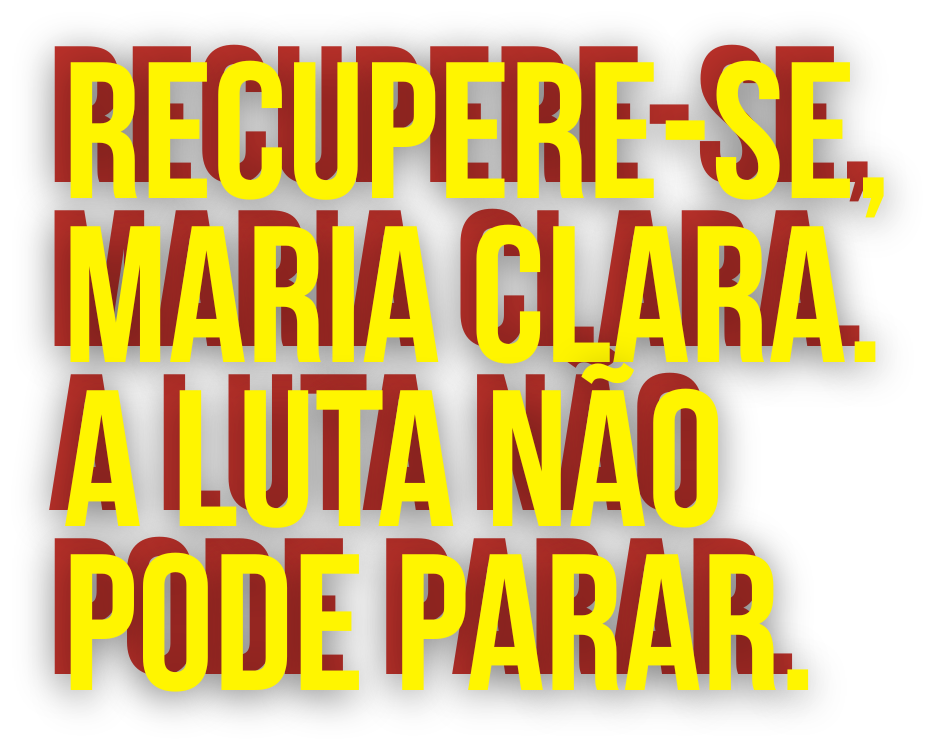
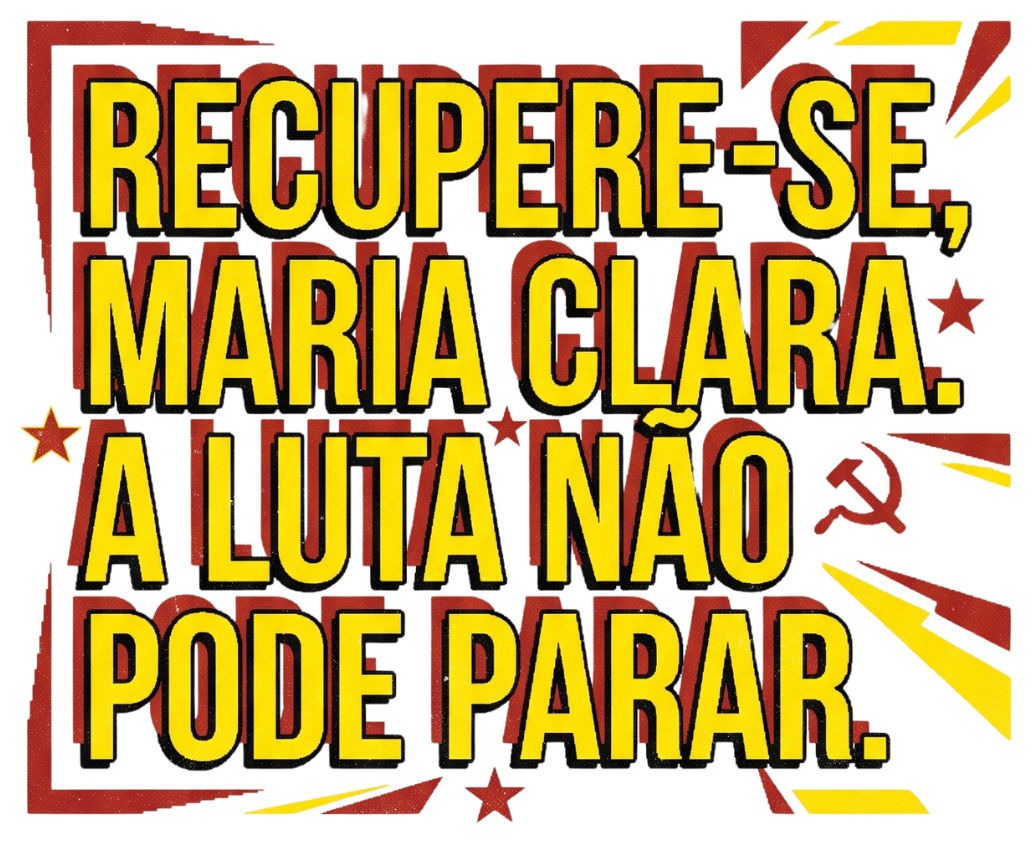
Troca o letreiro pela nova arte
'letreiro.png (2).png' renomeado para letreiro.png (substitui o
anterior), com fundo branco removido e recorte ao redor da arte.

Claude-Session: https://claude.ai/code/session_017TD9EjtYSDLiQdSc8QsZux

diff --git a/index.html b/index.html
@@ -6,7 +6,7 @@
   <meta name="theme-color" content="#C8102E">
   <title>Aniversário</title>
   <link rel="preload" as="image" href="fundo.png?v=3">
-  <link rel="preload" as="image" href="letreiro.png?v=3">
+  <link rel="preload" as="image" href="letreiro.png?v=4">
   <style>
     *, *::before, *::after { box-sizing: border-box; margin: 0; padding: 0; }
 
@@ -238,7 +238,7 @@
 <body>
   <main id="app">
     <section id="tela-final" class="tela" aria-hidden="true">
-      <img id="letreiro" src="letreiro.png?v=3" alt="Letreiro">
+      <img id="letreiro" src="letreiro.png?v=4" alt="Letreiro">
       <button type="button" id="som" aria-label="Pausar música">
         <svg class="icone-pausar" viewBox="0 0 24 24" aria-hidden="true"><path d="M7 5h3.5v14H7zM13.5 5H17v14h-3.5z"/></svg>
         <svg class="icone-tocar" viewBox="0 0 24 24" aria-hidden="true"><path d="M8 5v14l11-7z"/></svg>
